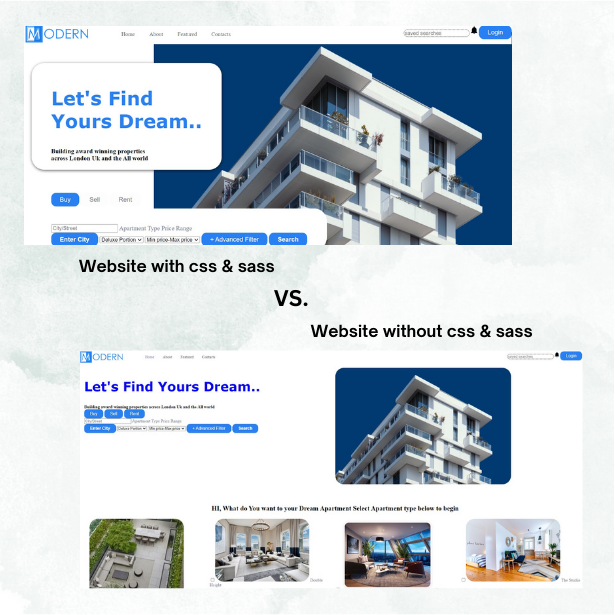
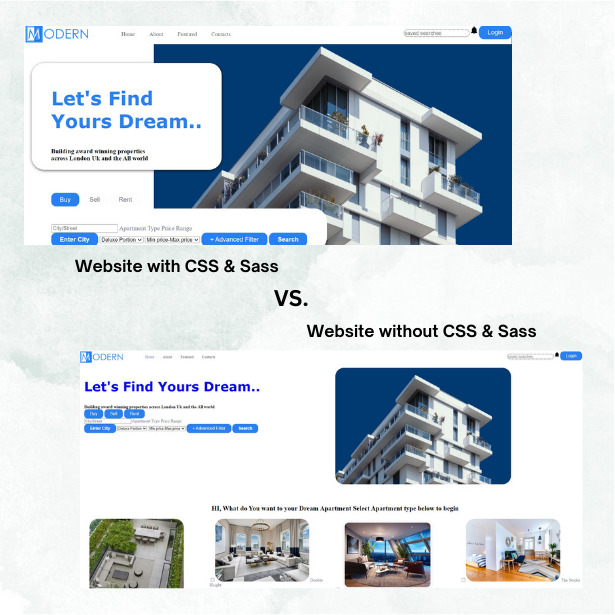
Project

Changed region(s): [[0.1236, 0.4016, 0.4634, 0.4634], [0.4943, 0.5252, 0.865, 0.5561]]

diff --git a/index.html b/index.html
@@ -401,7 +401,7 @@
                   <div class="mask rgba-white-slight"></div>
                 </a>
                 <div class="card-body">
-                  <h4 class="card-title">Exploring the Impact of css and sass</h4>
+                  <h4 class="card-title">Exploring the Impact of CSS and Sass</h4>
                   <hr />
                   <p class="card-text text-muted font-weight-light">
 
@@ -412,10 +412,10 @@
                   <a target="_blank"
                     class="nav-link text-dark rounded-pill z-depth-2 waves-effect waves-light mx-2 font-weight-bold"
                     href="https://github.com/mansiDandgaval/Website-with-Styling-css-and-sass-"
-                    role="button">Github<i class="fab fa-github fa-lg pl-3 fa-lg font-weight-light"></i></a>
+                    role="button">GitHub<i class="fab fa-github fa-lg pl-3 fa-lg font-weight-light"></i></a>
                   <a target="_blank"
                     class="nav-link text-dark rounded-pill z-depth-2 waves-effect waves-light font-weight-bold"
-                    href="https://www.canva.com/design/DAFybYD9NGc/0o67dXUtdct9w4Y4oRZQag/edit?ui=eyJHIjp7fX0"
+                    href="https://www.canva.com/design/DAF1Z0hXA6M/8kLZSBhra1G1bPxYWiEkTw/edit?utm_content=DAF1Z0hXA6M&utm_campaign=designshare&utm_medium=link2&utm_source=sharebutton"
                     role="button">Canva <i class="fas fa-chevron-right pl-3 fa-lg "></i></a>
                 </div>
               </div>
